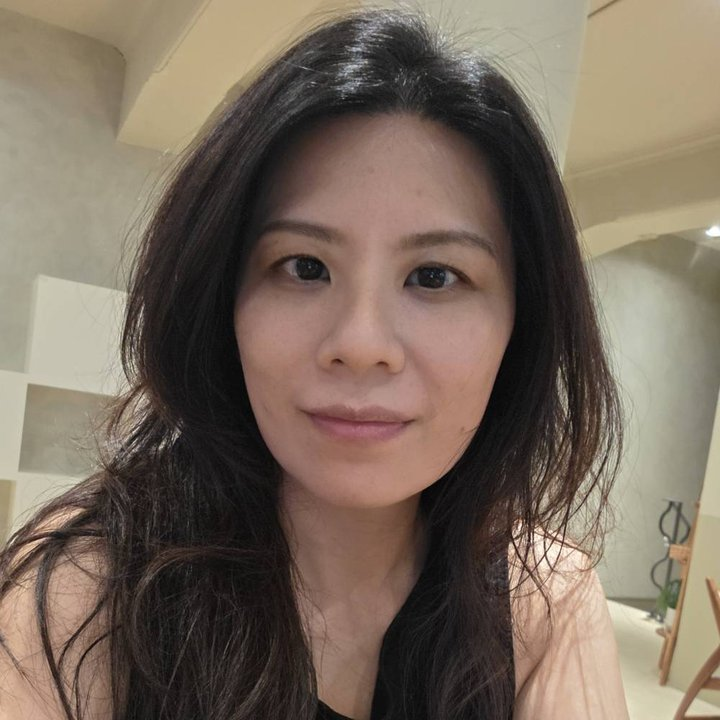
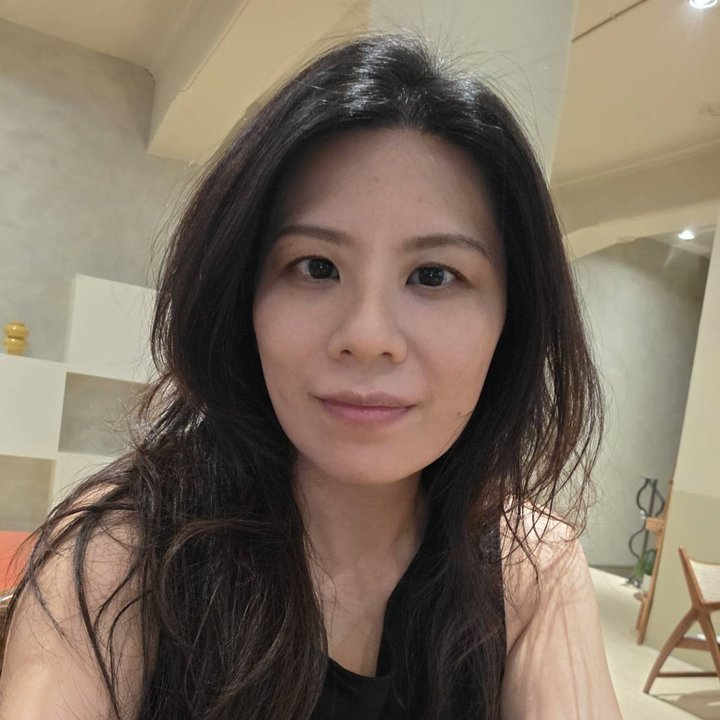
蔡宛庭：照片縮小臉的比例、現職改為合作心理師
Claude-Session: https://claude.ai/code/session_01QJWTHMYpvQ9KEoW3fTRpkE

diff --git a/team-tsai.html b/team-tsai.html
@@ -47,7 +47,7 @@
 
         <h2 class="secLabel">服務經歷</h2>
         <h3 class="subLabel">現職</h3>
-        <ul class="facts2"><li>禾沐心理諮商所 兼任諮商心理師</li><li>過好生活心理諮商所 兼任諮商心理師</li></ul>
+        <ul class="facts2"><li>禾沐心理諮商所 合作心理師</li><li>過好生活心理諮商所 兼任諮商心理師</li></ul>
         <h3 class="subLabel">經歷</h3>
         <ul class="facts2"><li>新北市教育局學生輔導諮商中心 專任學校心理師</li><li>南華高中職業學校 專任心理師</li><li>夏凱納生活診所 兼任心理師</li><li>長建身心診所 兼任心理師</li><li>思塾心理諮商所 兼任心理師</li><li>新北市家庭暴力暨性侵害防治中心 核備合作鐘點心理師</li><li>台北市基督教勵友中心 合作鐘點心理師</li><li>新北板橋地方法院少年法庭 合作鐘點心理師</li><li>士林地方法院少年法庭 合作鐘點心理師</li><li>家扶中心基隆分事務所 合作鐘點心理師</li><li>新北市雙和社福中心 合作鐘點心理師</li><li>新北市蘆洲社福中心 合作鐘點心理師</li><li>新北市蘆洲少年福利服務中心 合作鐘點心理師</li><li>兒童福利聯盟基金會 合作鐘點心理師</li><li>國立新店高中、永平高中，私立靜修高中、南華高中 合作鐘點心理師</li><li>新北市、台北市國中小學校輔導室 合作鐘點心理師（成功國小、忠義國小、鷺江國小、蘆洲國小、修德國小、厚德國小、德音國小、萬里國小、金美國小、金山國小、鄧公國小、北新國小、溪州國小、江翠國中、金山國中、鷺江國中、蘆洲國中、三重高中國中部、二重國中、關渡國中、永平國中、福和國中、網溪國小、康橋小學等）</li></ul>
 
